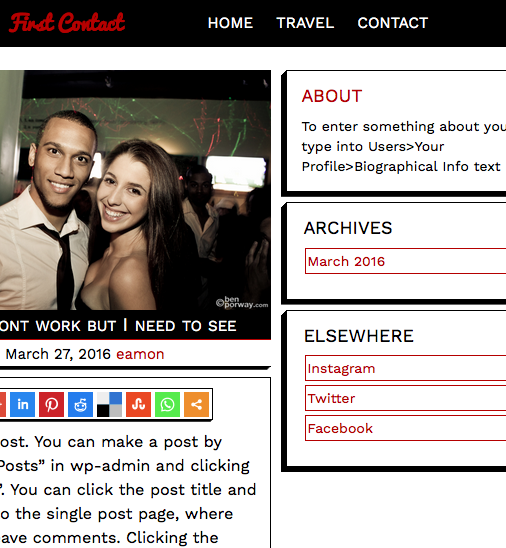
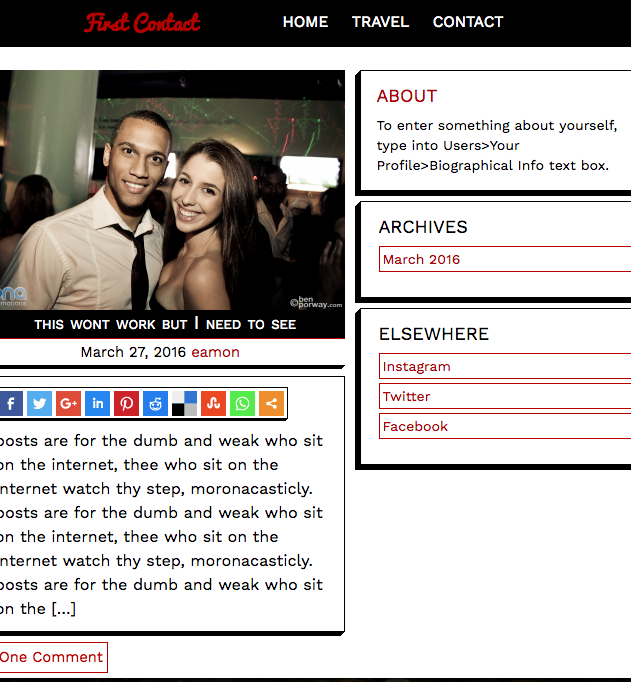
cleaned up hackabox panel

diff --git a/main.css b/main.css
@@ -199,12 +199,11 @@ a, a:hover, a:active, a:visited, a:focus {
 	overflow: hidden;
 	padding-left: 0;
 	padding-right: 0;
-	height: 70vh;
-	padding-bottom: 70vh;
+	height: 80vh;
+	padding-bottom: 80vh;
 	background-image: url('images/themeboximg.png');
-	background-size: 100%;
+	background-size: 124%;
     border-radius: 6px;
-    margin-top: 2vh;
 }
 
 .hacktext {
@@ -215,7 +214,7 @@ a, a:hover, a:active, a:visited, a:focus {
 
 .wordtext {
 	display: inline-block;
-	height: 70vh;
+	height: 80vh;
 	margin-top: 0vh;
 }
 
@@ -272,10 +271,6 @@ a, a:hover, a:active, a:visited, a:focus {
 		display: block;
 	}
 
-	.hackaboximgcont {
-		margin-top: 2vh;
-	}
-
 	.hackaboximgsmall {
 		display: none;
 	}
@@ -293,7 +288,7 @@ a, a:hover, a:active, a:visited, a:focus {
 	}
 
 	.hacktext>p {
-		font-size: 1.3vw;
+		font-size: 1.29vw;
 	}
 
 	.subtitle {
@@ -304,7 +299,6 @@ a, a:hover, a:active, a:visited, a:focus {
 /* Landscape tablets and medium desktops */
 @media (min-width: 992px) and (max-width: 1199px) {
 	.hackaboximgcont {
-		margin-top: 5vh;
 		height: 70vh;
 		padding-bottom: 70vh;
 		background-size: 130%;
@@ -349,19 +343,18 @@ a, a:hover, a:active, a:visited, a:focus {
 
 	.hacktext {
 		height: 70vh;
-		margin-top: 3vh;
 	}
 
 	.titlep {
-		font-size: 4.5vh;
+		font-size: 5vh;
 	}
 
 	.hacktext>p {
-		font-size: 1.2vw;
+		font-size: 1.17vw;
 	}
 
 	.subtitle {
-		font-size: 2.5vh;
+		font-size: 2.8vh;
 	}
 
 	.hackaboximg {
@@ -403,10 +396,10 @@ a, a:hover, a:active, a:visited, a:focus {
 	}
 
 	.wpimgcont {
-		margin-top: 1vh;
-		height: 70vh;
-		padding-bottom: 70vh;
-		background-size: 235%;
+		margin-top: 5vh;
+		height: 75vh;
+		padding-bottom: 75vh;
+		background-size: 200%;
 	}
 
 	.techwp {
@@ -444,7 +437,7 @@ a, a:hover, a:active, a:visited, a:focus {
 	.titlep {
 		font-family: 'Raleway', sans-serif;
 		font-weight: 400;
-		font-size: 4vw;
+		font-size: 3.2vw;
 		text-align: center;
 		color: #C75252;
 	}

diff --git a/index.html b/index.html
@@ -50,7 +50,7 @@
 					<div class="slide" id="hackabox1">
 						<div class='container-fluid'>
 							<div class="row">
-								<div class='col-lg-14 col-lg-offset-3 col-md-14 col-md-offset-3	 col-sm-14 col-sm-offset-3 col-xs-28 col-xs-offset-4 hackaboximgcont'>
+								<div class='col-lg-14 col-lg-offset-3 col-md-14 col-md-offset-3	col-sm-14 col-sm-offset-3 col-xs-28 col-xs-offset-4 hackaboximgcont'>
 									<div class='demo'><p>DEMO</p></div>
 									<!--<img class='hackaboximg' src='images/hackaboxfull.png'>-->
 									<img class='hackaboximgsmall' src='images/hackaboxquery700.png'>
@@ -73,7 +73,7 @@
 					<div class="slide" id="wordpress1">
 						<div class='container-fluid'>
 							<div class='row'>
-								<div class='col-lg-12 col-lg-offset-4 col-md-11 col-md-offset-3 col-sm-9 col-sm-offset-4 col-xs-28 col-xs-offset-4 wpimgcont inlineblock'>
+								<div class='col-lg-14 col-lg-offset-3 col-md-14 col-md-offset-3	col-sm-14 col-sm-offset-3 col-xs-28 col-xs-offset-4 wpimgcont inlineblock'>
 									<div class='demo'><p>DEMO</p></div>
 									<!--<img class='wpimg' src='images/themeboximg.png'>-->
 									<img class='wpsmall' src='images/themeboximg700.png'>
